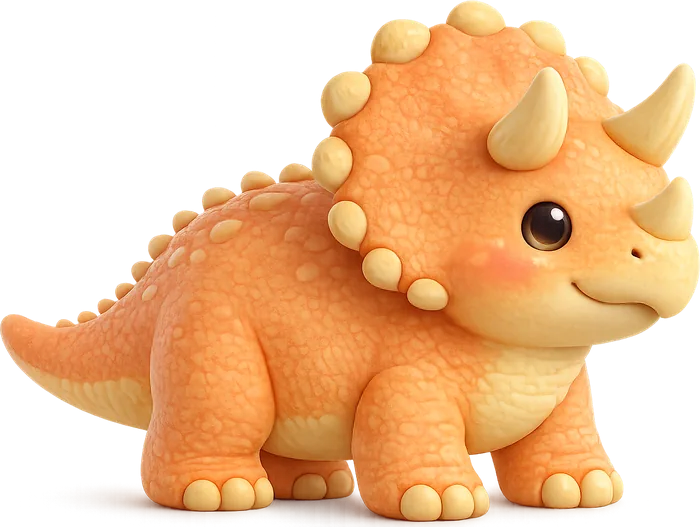
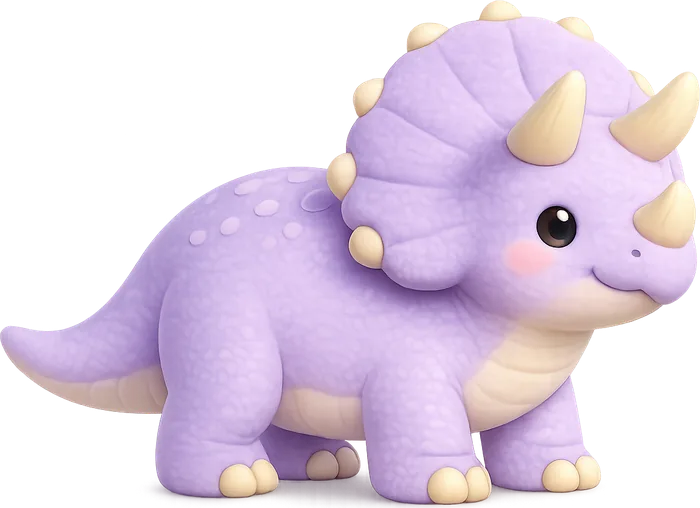
Dino Dig: purple Triceratops; tests find each painted body by its own colour
Claude-Session: https://claude.ai/code/session_016pBS9tetwmpkgG7XzjZxMb

diff --git a/public/dino.js b/public/dino.js
@@ -158,7 +158,7 @@
   var SKULL_LONG = [[-26, 6], [-23, -15], [-3, -23], [18, -18], [37, -7], [41, 6], [31, 15], [4, 17], [-18, 14]];
 
   var DINOS = [
-    { id: "trex", name: "T. rex", a: "a", fill: "#8BD07A", edge: "#5FA04F", far: "#74BA63",
+    { id: "trex", name: "T. rex", a: "a", fill: "#8BD07A", paint: "#9CC454", edge: "#5FA04F", far: "#74BA63",
       look: [
         { as: "far", pts: [[266, 152], [278, 174], [268, 186], [296, 195, 1], [248, 197, 1], [246, 184], [238, 158]] },
         { as: "body", pts: [[62, 98, 1], [108, 86], [158, 78], [200, 74], [240, 74], [264, 62], [272, 38], [294, 16], [330, 13], [364, 22], [392, 36], [394, 58], [374, 67], [326, 70, 1],
@@ -180,7 +180,7 @@
       ],
       spots: [[0.3, 0.5], [0.72, 0.5], [0.5, 0.62], [0.28, 0.42], [0.66, 0.6], [0.4, 0.4], [0.62, 0.45], [0.42, 0.55]] },
 
-    { id: "tri", name: "Triceratops", a: "a", fill: "#B8A2F2", edge: "#8671CC", far: "#A28BE3", accent: "#A28BE3", light: "#D8CBFA",
+    { id: "tri", name: "Triceratops", a: "a", fill: "#B8A2F2", paint: "#DCC4EC", edge: "#8671CC", far: "#A28BE3", accent: "#A28BE3", light: "#D8CBFA",
       look: [
         { as: "far", pts: [[276, 160], [310, 160], [312, 195, 1], [280, 195, 1]] },
         { as: "far", pts: [[162, 160], [196, 160], [200, 195, 1], [166, 195, 1]] },
@@ -206,7 +206,7 @@
       ],
       spots: [[0.7, 0.5], [0.3, 0.5], [0.52, 0.4], [0.5, 0.62], [0.26, 0.45], [0.74, 0.55], [0.36, 0.55], [0.6, 0.5]] },
 
-    { id: "steg", name: "Stegosaurus", a: "a", fill: "#79C9DD", edge: "#4A9BB3", far: "#62B6CC", accent: "#FF8F86", accentEdge: "#D9655E",
+    { id: "steg", name: "Stegosaurus", a: "a", fill: "#79C9DD", paint: "#ECCCF4", edge: "#4A9BB3", far: "#62B6CC", accent: "#FF8F86", accentEdge: "#D9655E",
       look: [
         { as: "far", pts: [[292, 158], [322, 158], [326, 195, 1], [296, 195, 1]] },
         { as: "far", pts: [[170, 152], [208, 152], [212, 195, 1], [176, 195, 1]] },
@@ -232,7 +232,7 @@
       ],
       spots: [[0.5, 0.45], [0.26, 0.5], [0.72, 0.6], [0.4, 0.6], [0.66, 0.42], [0.3, 0.45], [0.5, 0.55], [0.7, 0.5]] },
 
-    { id: "bronto", name: "Brontosaurus", a: "a", fill: "#F3A2C3", edge: "#C8709A", far: "#E58DB2",
+    { id: "bronto", name: "Brontosaurus", a: "a", fill: "#F3A2C3", paint: "#9CDCEC", edge: "#C8709A", far: "#E58DB2",
       look: [
         { as: "far", pts: [[276, 154], [312, 154], [314, 195, 1], [282, 195, 1]] },
         { as: "far", pts: [[178, 154], [216, 154], [220, 195, 1], [184, 195, 1]] },
@@ -261,6 +261,8 @@
 
   // painted pictures, when they arrive (see the top of this file). No address
   // until then, so no page asks for a file that isn't there.
+  // paint: the main body colour of each painted picture below, so a reader
+  // (the tests) can find the woken body whichever picture is drawn
   var ART = { trex: "/assets/crafted/game/dino-trex.webp", tri: "/assets/crafted/game/dino-tri.webp", steg: "/assets/crafted/game/dino-steg.webp", bronto: "/assets/crafted/game/dino-bronto.webp" }, art = {};
   var SITE = new Image(), SAND = new Image(), SOIL = new Image();
   SITE.src = "/assets/crafted/game/dino-site.webp"; SOIL.src = "/assets/crafted/game/dino-soil.webp";
@@ -676,8 +678,8 @@
   // ── what the engine calls ──
   function publish() {
     try { window.__dino = { state: state, found: found, count: count, rubs: rubs, frozen: frozen, revealed: +revealed().toFixed(3),
-      dino: cur.id, name: cur.name, fill: cur.fill, got: kept.got.slice(), bones: cur.bones.map(function (b) { return b.id; }),
-      dinos: DINOS.map(function (d) { return { id: d.id, name: d.name, fill: d.fill }; }),
+      dino: cur.id, name: cur.name, fill: cur.fill, paint: cur.paint, got: kept.got.slice(), bones: cur.bones.map(function (b) { return b.id; }),
+      dinos: DINOS.map(function (d) { return { id: d.id, name: d.name, fill: d.fill, paint: d.paint }; }),
       pit: { x: +pit.x.toFixed(1), y: +pit.y.toFixed(1), w: +pit.w.toFixed(1), h: +pit.h.toFixed(1) },
       bone: dig ? { id: dig.bone.id, x: +dig.x.toFixed(1), y: +dig.y.toFixed(1), w: +dig.w.toFixed(1), h: +dig.h.toFixed(1) } : null,
       glow: !!(dig && state === "ready" && clock >= glowAt), awake: wakeAt >= 0 }; } catch (e) {}
